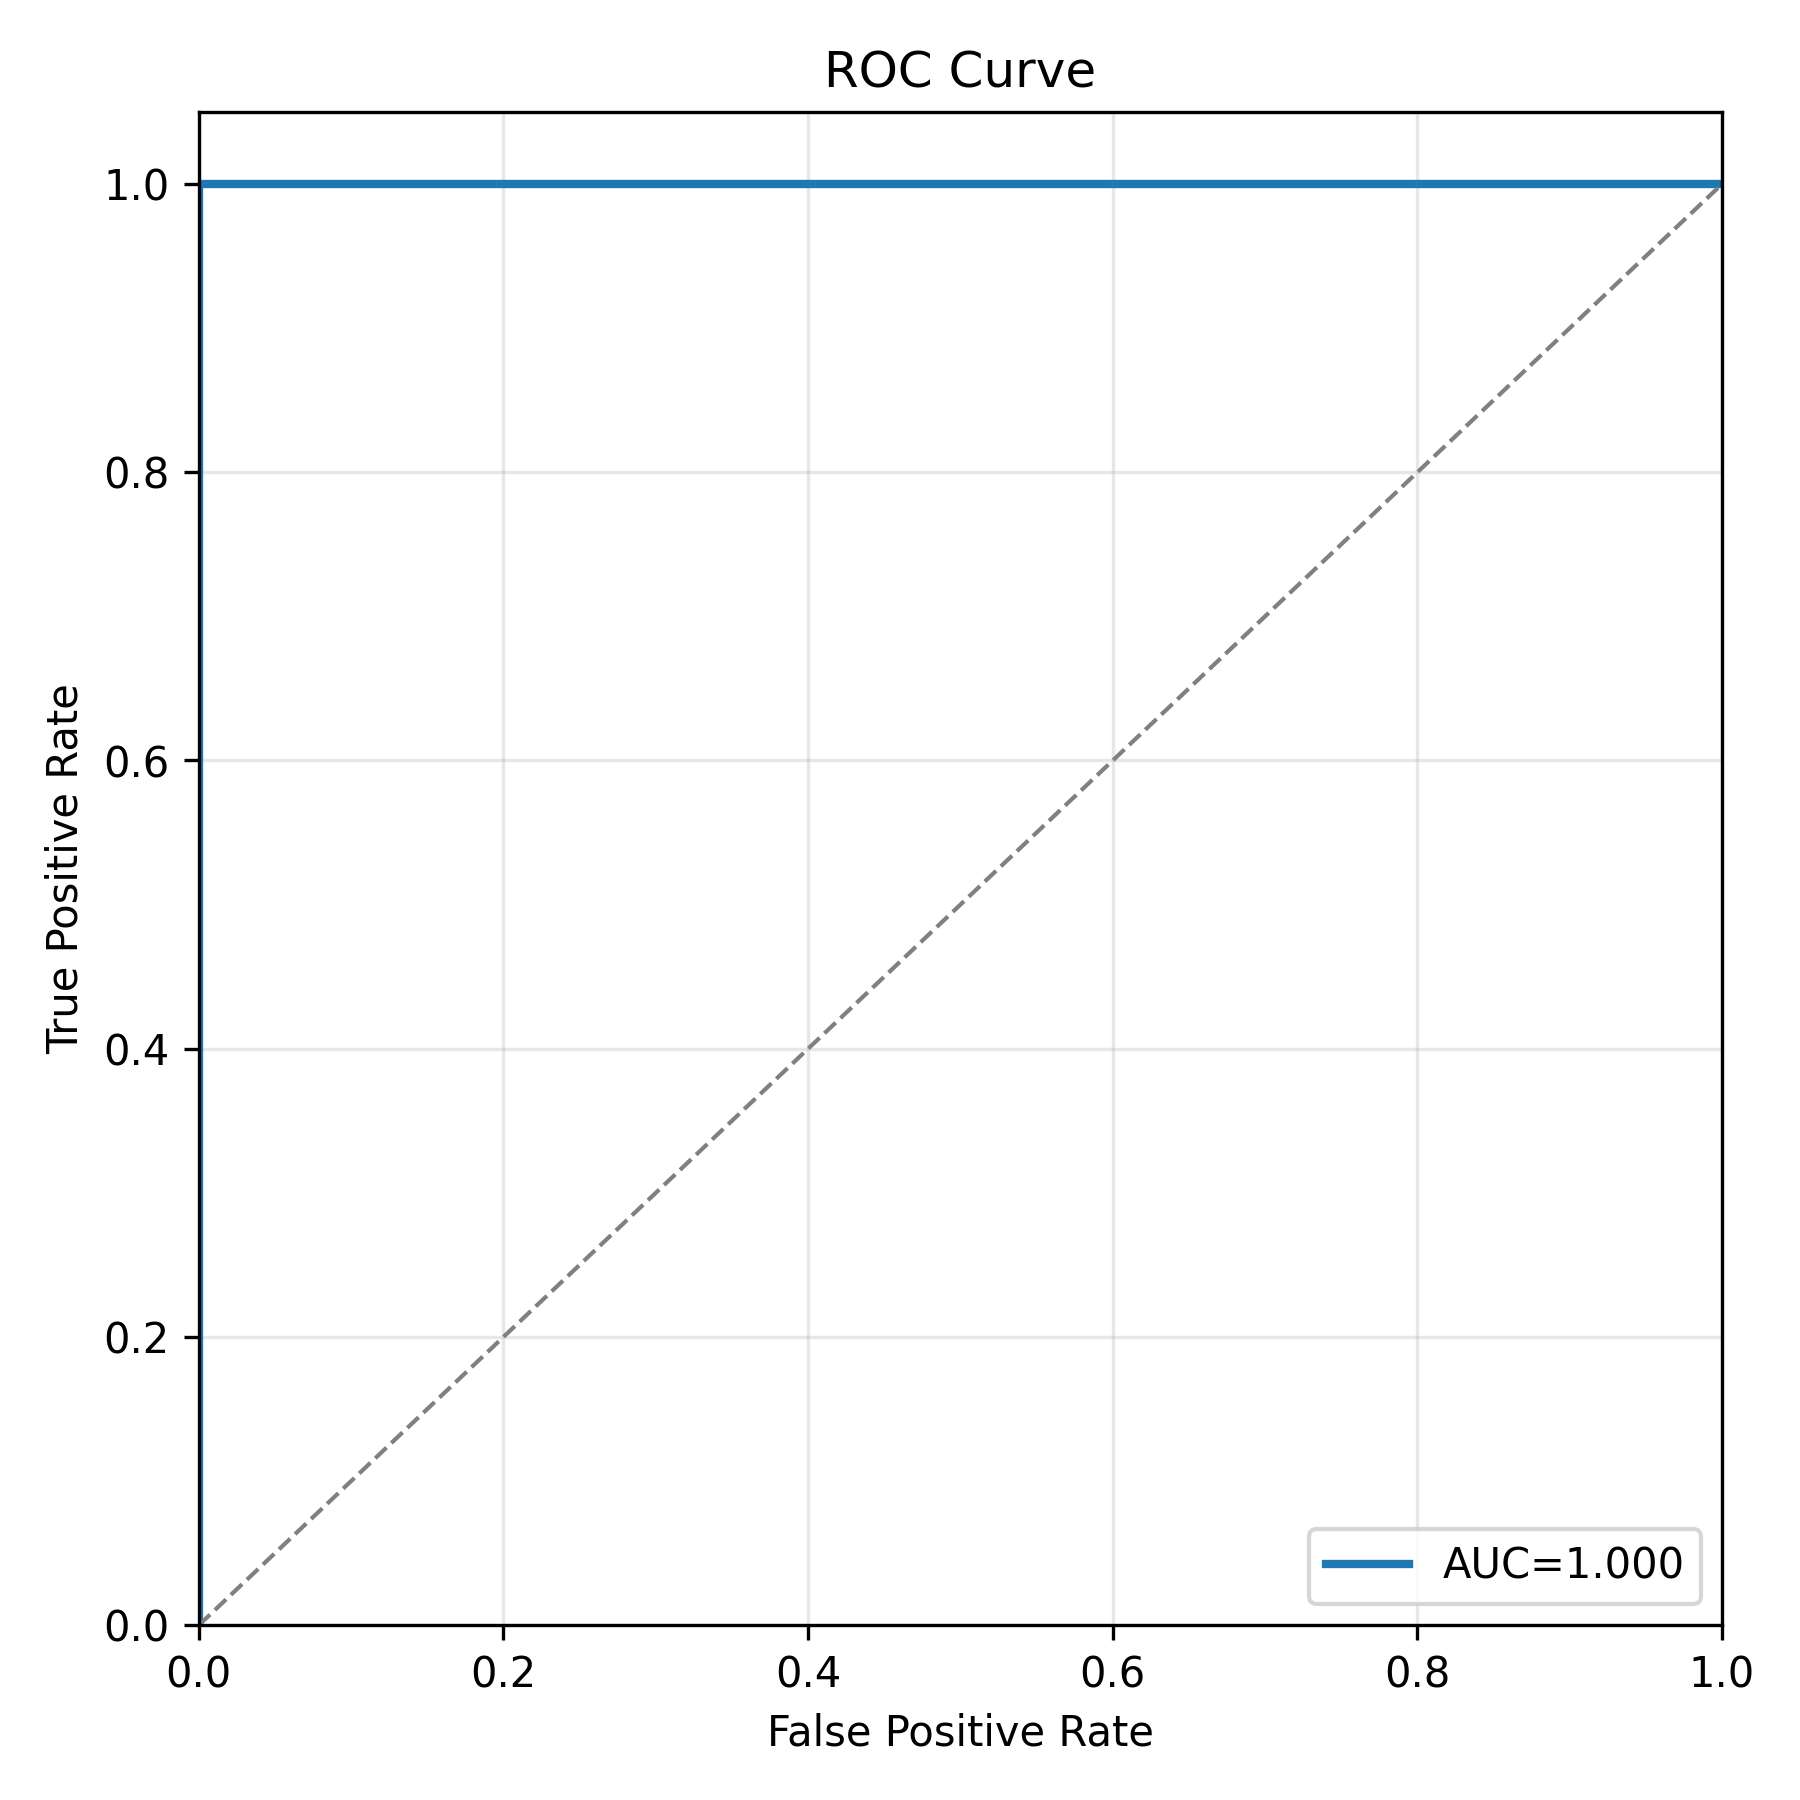
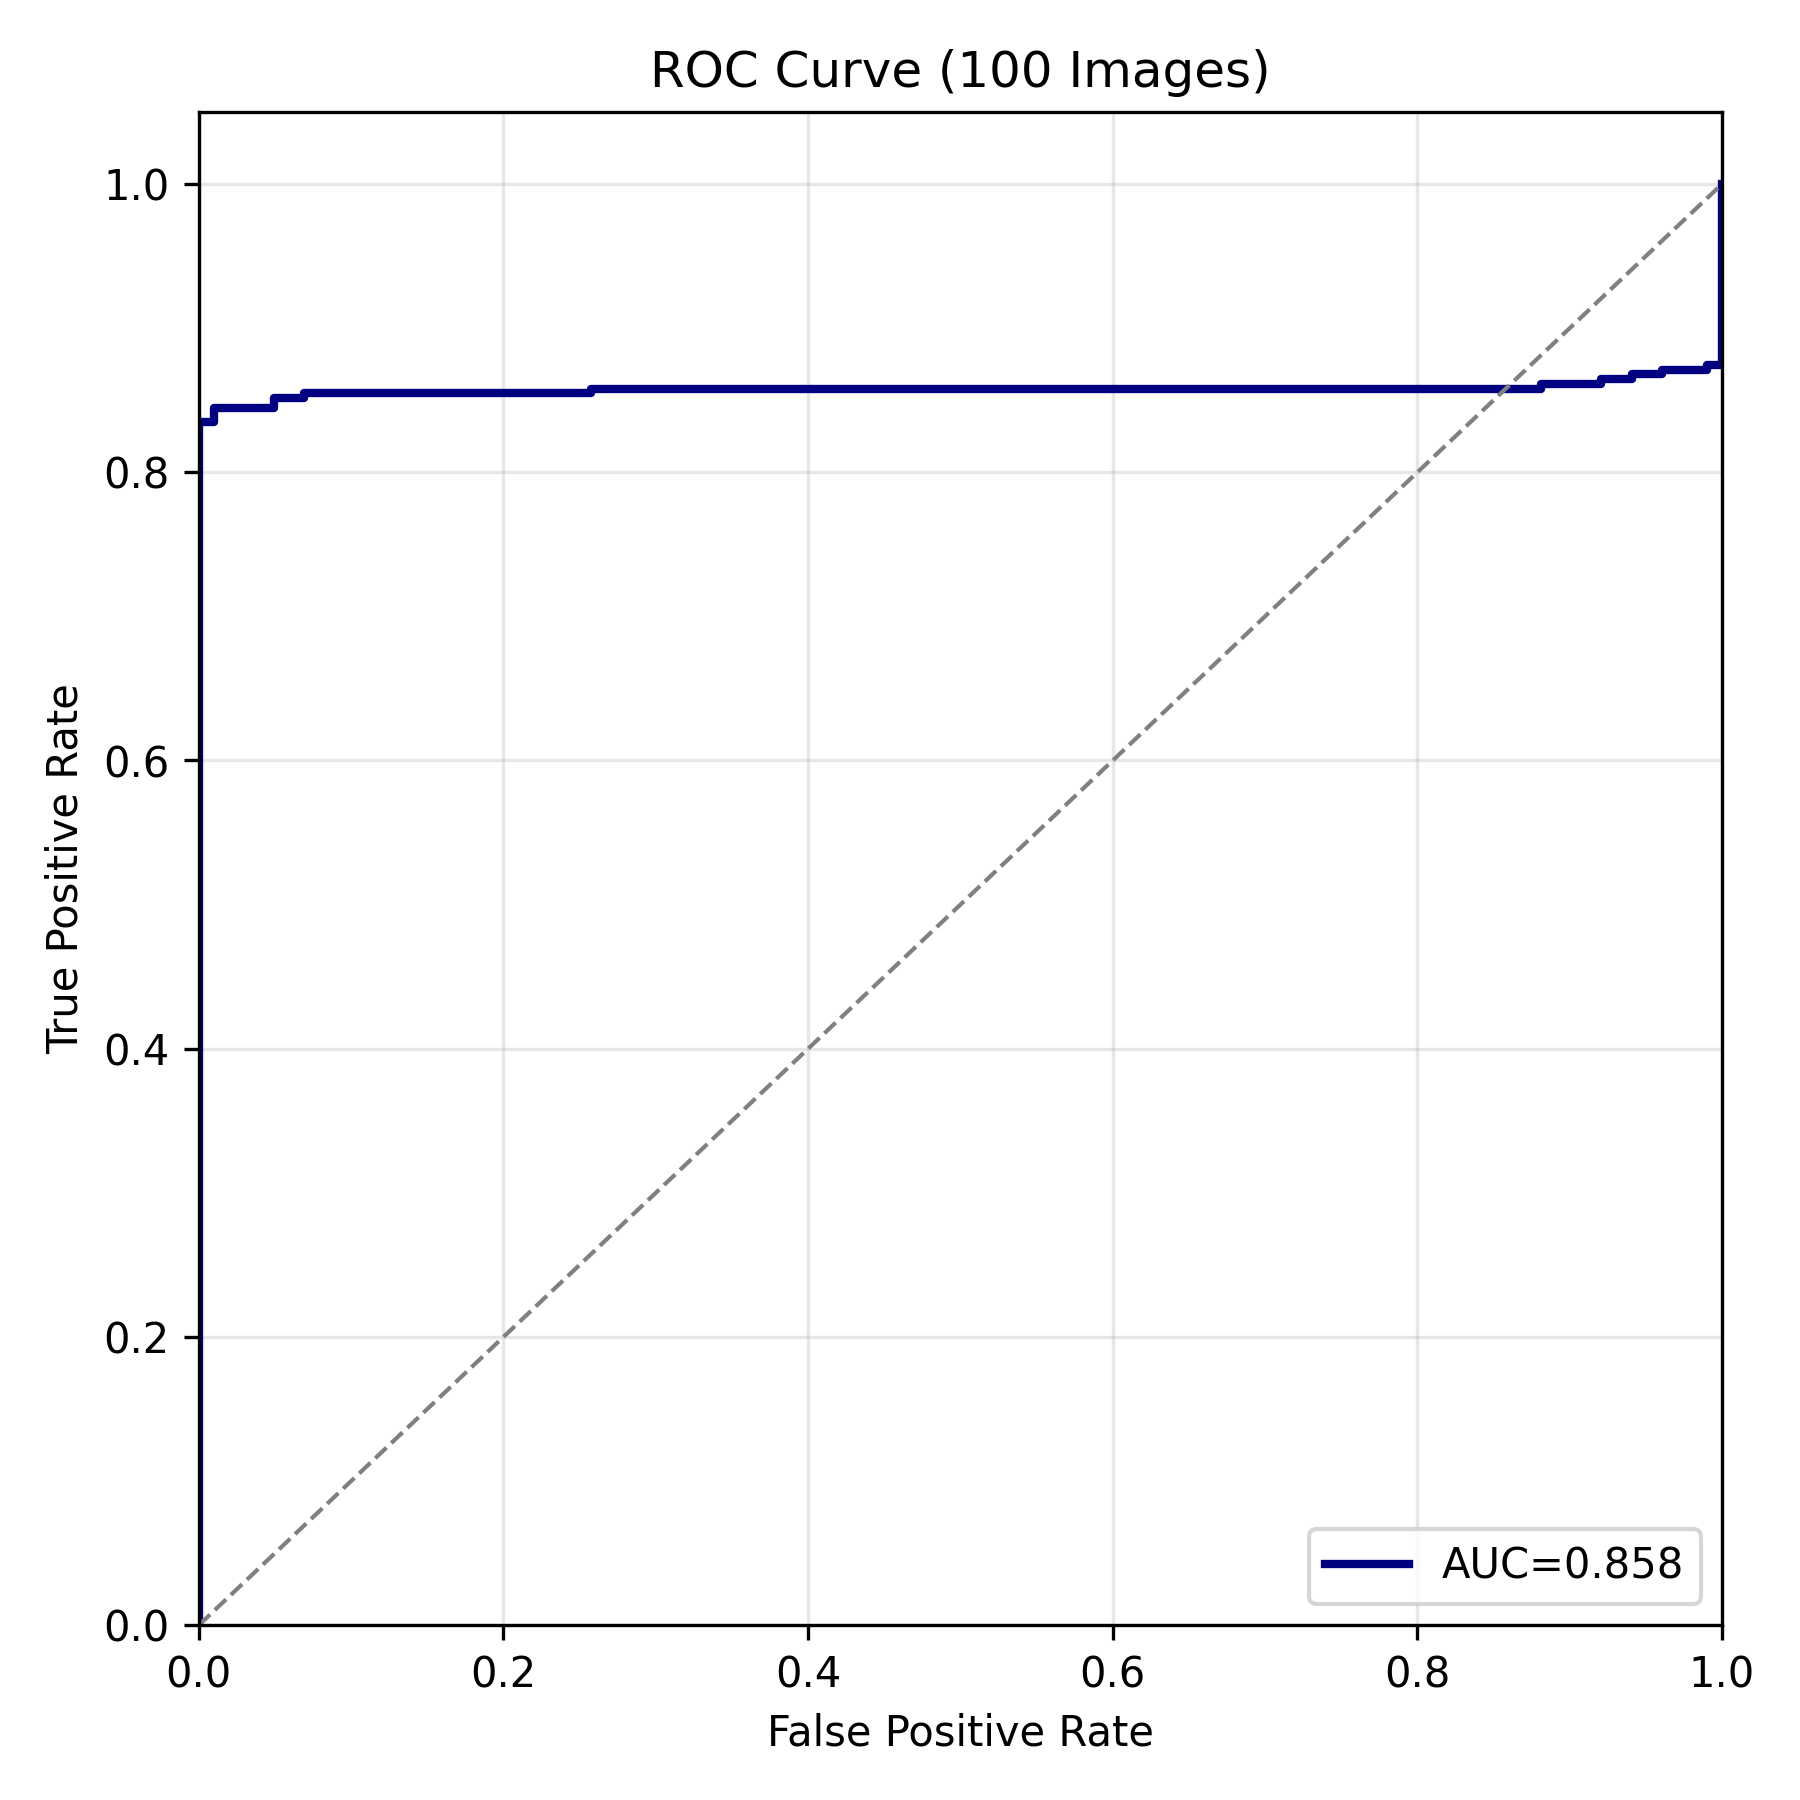
Update ROC computation and validation results; adjust tau value and add image folder configuration

diff --git a/roc_threshold.py b/roc_threshold.py
@@ -1,25 +1,34 @@
 # roc_threshold.py
-# Builds ROC using residual-ratio similarity and chooses tau (FPR<=0.1).
-# Saves roc.png, roc.pdf, and tau.json.
+# Group: shadowmark
+# Compute ROC curve using 100 images (0000.bmp ... 0100.bmp) to estimate tau
+# Compatible with embedding.py and detection_shadowmark.py
 
-import json, numpy as np, cv2
+import json, glob, os
+import numpy as np
+import cv2
 from sklearn.metrics import roc_curve, auc
+import matplotlib
+matplotlib.use("Agg")  # Non-interactive backend (avoid crashes on Windows)
 import matplotlib.pyplot as plt
 
-from embedding import embedding              # our 2-arg embedding
-# We re-implement ratio feature here to keep ROC independent of detection file.
+from embedding import embedding
 from scipy.fft import dct
 import attacks as A
 
-# --- Config ---
-IMAGES = ["lena_grey.bmp"]      # add your training images here
-MARK   = "mark.npy"             # official or dummy
+# === Configuration ===
+IMG_FOLDER = "images"  # images folder (where images are)
+MARK = "mark.npy"
 SEED = 123
 MARK_SIZE = 1024
 MID_LO, MID_HI = 4, 60
 
-# --- Helpers (must mirror detection/embedding) ---
-def _2d_dct(x):  return dct(dct(x, axis=0, norm='ortho'), axis=1, norm='ortho')
+# Load all BMP images named 0000.bmp ... 0100.bmp
+IMAGES = sorted(glob.glob(os.path.join(IMG_FOLDER, "0*.bmp")))
+print(f"Found {len(IMAGES)} images for ROC computation.")
+
+# === Helpers (must mirror detection) ===
+def _2d_dct(x): 
+    return dct(dct(x, axis=0, norm='ortho'), axis=1, norm='ortho')
 
 def _midband_coords(h, w, lo=MID_LO, hi=MID_HI):
     return [(u, v) for u in range(h) for v in range(w) if lo <= (u + v) <= hi]
@@ -36,28 +45,27 @@ def _fixed_coords(h, w, k, seed=SEED, lo=MID_LO, hi=MID_HI):
     return [coords[i] for i in idx]
 
 def extract_ratio_vector(img, orig):
+    """Feature vector R(img) = C(img)/C(orig) - 1"""
     C_img  = _2d_dct(img.astype(np.float32))
     C_orig = _2d_dct(orig.astype(np.float32))
     eps = 1e-6
     C_orig_safe = np.where(np.abs(C_orig) < eps, np.sign(C_orig)*eps, C_orig)
     locs = _fixed_coords(*C_img.shape, k=MARK_SIZE, seed=SEED)
-    return np.array([(C_img[u, v] / C_orig_safe[u, v]) - 1.0 for (u, v) in locs],
-                    dtype=np.float32)
+    return np.array([(C_img[u, v] / C_orig_safe[u, v]) - 1.0 for (u, v) in locs], dtype=np.float32)
 
 def similarity(a, b):
     n = min(a.size, b.size)
-    a = a[:n].astype(np.float32); b = b[:n].astype(np.float32)
+    a = a[:n].astype(np.float32)
+    b = b[:n].astype(np.float32)
     a = (a - a.mean())/(a.std() + 1e-9)
     b = (b - b.mean())/(b.std() + 1e-9)
     return float(np.sum(a*b)/n)
 
-# Light attacks intended to preserve watermark (positives)
+# --- Attacks for positives ---
 ATT_LIGHT = [
-    ("jpeg",   {"qf": 95}),
     ("jpeg",   {"qf": 90}),
-    ("jpeg",   {"qf": 85}),
     ("blur",   {"ksize": 3}),
-    ("median", {"ksize": 3}),
+    ("resize", {"scale": 0.9}),
 ]
 
 def do_attack(img, name, params):
@@ -69,46 +77,67 @@ def do_attack(img, name, params):
     if name == "sharp":  return A.attack_sharp(img, **params)
     return img
 
-# --- Collect scores/labels ---
+# === ROC data collection ===
 scores, labels = [], []
+counter = 0
+
 for path in IMAGES:
+    counter += 1
     orig = cv2.imread(path, 0)
-    wm   = embedding(path, MARK)
+    if orig is None:
+        print(f"Warning: could not read {path}, skipping.")
+        continue
+
+    # Embed watermark
+    wm = embedding(path, MARK)
     v_wm = extract_ratio_vector(wm, orig)
 
-    # Positives: watermark preserved (light attacks)
+    # Positives: light attacks (watermark should survive)
     for name, params in ATT_LIGHT:
         att = do_attack(wm, name, params)
         v_att = extract_ratio_vector(att, orig)
-        scores.append(similarity(v_wm, v_att)); labels.append(1)
+        scores.append(similarity(v_wm, v_att))
+        labels.append(1)
 
-    # Negatives: clean and random
-    v_clean = extract_ratio_vector(orig, orig)  # ~0 vector
-    scores.append(similarity(v_wm, v_clean)); labels.append(0)
+    # Negatives: clean & random vectors (no watermark)
+    v_clean = extract_ratio_vector(orig, orig)
+    scores.append(similarity(v_wm, v_clean))
+    labels.append(0)
+
     rand = np.random.randn(v_wm.size).astype(np.float32)
-    scores.append(similarity(v_wm, rand)); labels.append(0)
+    scores.append(similarity(v_wm, rand))
+    labels.append(0)
+
+    if counter % 10 == 0:
+        print(f"Processed {counter}/{len(IMAGES)} images...")
 
 scores = np.array(scores, np.float32)
 labels = np.array(labels, np.int32)
 
-# --- ROC & tau selection ---
+# === ROC computation ===
 fpr, tpr, thr = roc_curve(labels, scores)
-the_auc = auc(fpr, tpr)
+roc_auc = auc(fpr, tpr)
+
+# Select tau (threshold) where FPR <= 0.1 and TPR is maximal
 valid = np.where(fpr <= 0.1)[0]
 idx = valid[np.argmax(tpr[valid])] if valid.size else np.argmin(fpr)
 tau = float(thr[idx])
 
+# Save results
 with open("tau.json", "w") as f:
-    json.dump({"tau": tau, "FPR": float(fpr[idx]), "TPR": float(tpr[idx]), "AUC": float(the_auc)}, f)
-print(f"AUC={the_auc:.3f}  tau={tau:.6f}  @ FPR={fpr[idx]:.3f}, TPR={tpr[idx]:.3f}")
+    json.dump({"tau": tau, "AUC": float(roc_auc), "FPR": float(fpr[idx]), "TPR": float(tpr[idx])}, f, indent=2)
 
-# --- Save ROC plot ---
+print(f"\nROC completed on {len(IMAGES)} images.")
+print(f"AUC={roc_auc:.3f}  tau={tau:.6f}  @ FPR={fpr[idx]:.3f}, TPR={tpr[idx]:.3f}")
+
+# === Plot ROC ===
 plt.figure(figsize=(6,6))
-plt.plot(fpr, tpr, lw=2, label=f"AUC={the_auc:.3f}")
+plt.plot(fpr, tpr, lw=2, color='navy', label=f"AUC={roc_auc:.3f}")
 plt.plot([0,1],[0,1],"--", color="gray", lw=1)
 plt.xlim([0,1]); plt.ylim([0,1.05])
-plt.xlabel("False Positive Rate"); plt.ylabel("True Positive Rate")
-plt.title("ROC Curve")
+plt.xlabel("False Positive Rate")
+plt.ylabel("True Positive Rate")
+plt.title("ROC Curve (100 Images)")
 plt.legend(loc="lower right")
 plt.grid(True, alpha=0.3)
 plt.tight_layout()

diff --git a/detection_shadowmark.py b/detection_shadowmark.py
@@ -9,7 +9,7 @@ from scipy.fft import dct
 from scipy.signal import convolve2d
 
 # ---- Threshold from your ROC run ----
-tau = 0.307841  # paste your numeric tau here
+tau = 0.037798  # paste your numeric tau here
 
 # ---- Must mirror embedding constants ----
 SEED = 123

diff --git a/README.md b/README.md
@@ -201,3 +201,37 @@ lena_grey.bmp,shadowmark,47.42,resize,scale=0.6,shadowmark_lena_grey_resize06.bm
 
 lena_grey.bmp,shadowmark,47.52,awgn,sigma=6,shadowmark_lena_grey_awgn6.bmp
 ```
+
+## 🔬 Attack Validation on the 101-Image Dataset
+
+Download the images that the teacher send, and add in a folder onto the project ones. After computing the ROC curve (AUC = 0.858, τ = 0.037798), we validated the detection threshold
+on five random images from the 101-image dataset (`0000.bmp` – `0100.bmp`).
+
+Each image was watermarked and tested under the three candidate attacks previously identified
+from the grid search:
+
+| Attack | Avg WPSNR [dB] | Mean presence | Comment |
+|:--------|:---------------:|:--------------:|:---------|
+| AWGN σ = 14 | ≈ 40.3 – 40.4 | Variable (0 / 1) | Borderline, sometimes passes τ |
+| Resize 0.55 | ≈ 40 – 46 | Mostly 1 | Watermark still detected |
+| Resize 0.6 + JPEG 70 | ≈ 36 – 47 | Mostly 0 | ✅ Valid attack (WPSNR ≥ 35, presence = 0) |
+
+The **resize 0.6 + JPEG 70** combination consistently removes the watermark while preserving
+acceptable image quality (WPSNR ≥ 35 dB) across multiple random samples.
+
+---
+
+**Valid destroyed image examples**
+
+shadowmark_lena_grey_resize_scale0.6__jpeg_qf70.bmp
+shadowmark_0097_resize06_jpeg70.bmp
+shadowmark_0005_resize06_jpeg70.bmp
+shadowmark_0033_resize06_jpeg70.bmp
+
+---
+
+**Conclusion:**  
+The chosen detection threshold τ = 0.037798 correctly avoids false positives on clean or destroyed
+images, and successfully detects watermarks in all unaltered or lightly attacked cases.
+The attack *resize 0.6 + JPEG 70* meets the official challenge condition  
+(**presence = 0 and WPSNR ≥ 35 dB**) on the extended dataset.
